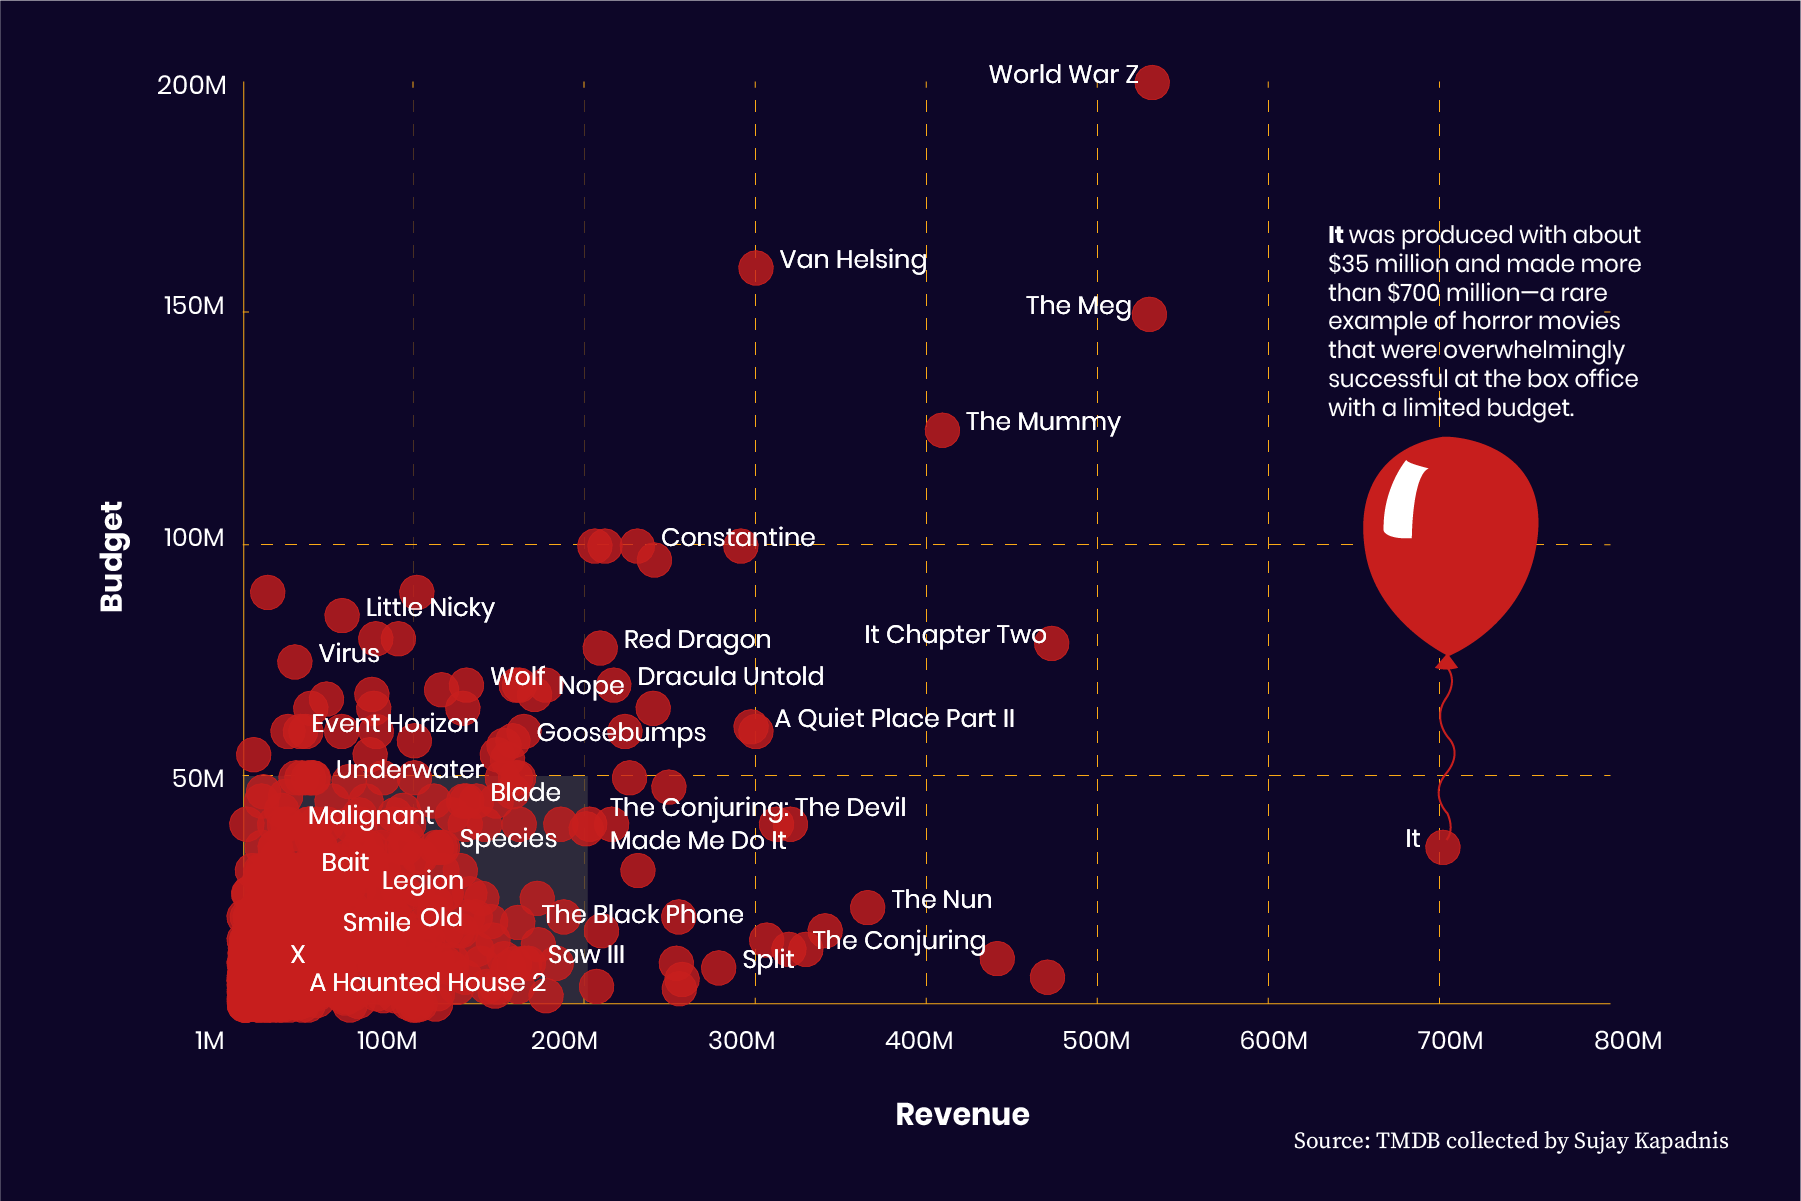
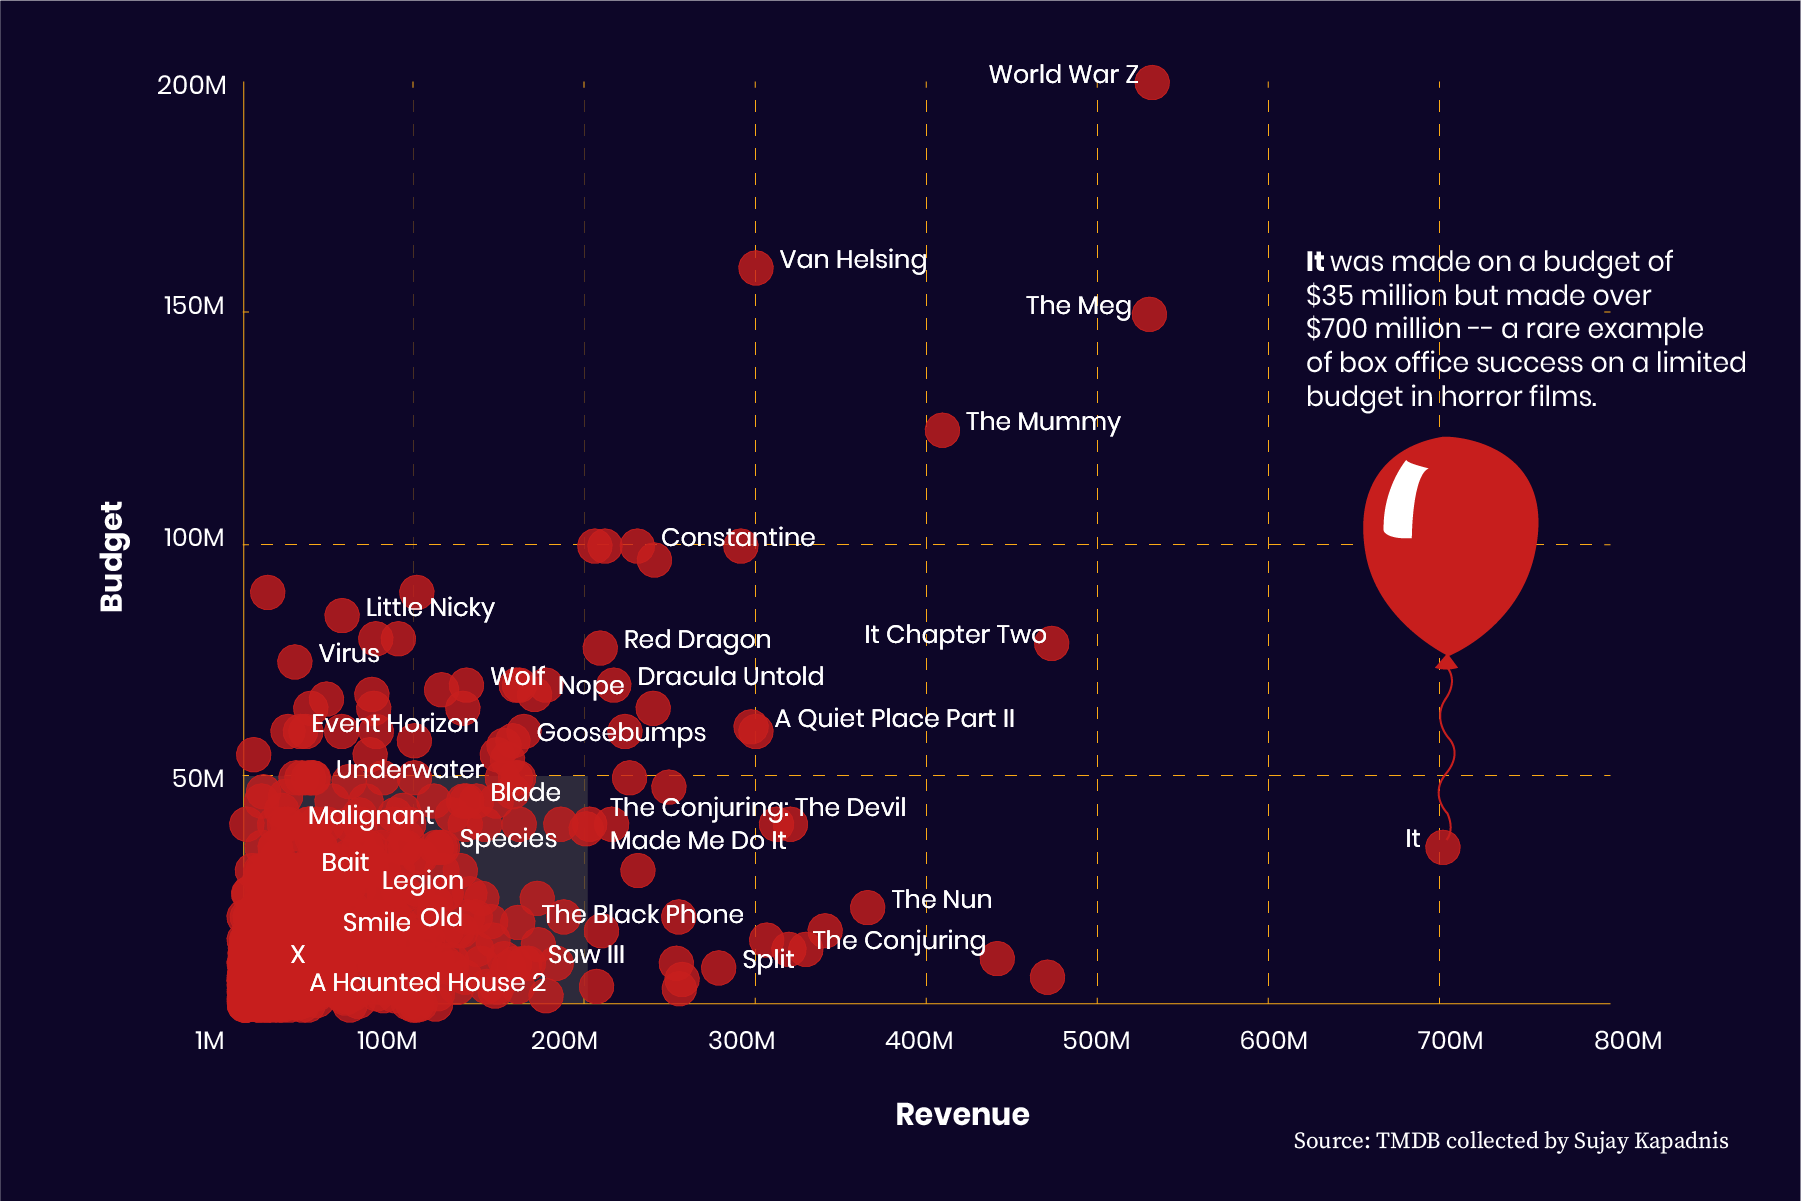
update content

Changed region(s): [[0.7152, 0.1848, 0.9639, 0.3697]]

diff --git a/index.html b/index.html
@@ -7,36 +7,69 @@
         <link rel="preconnect" href="https://fonts.googleapis.com">
         <link rel="preconnect" href="https://fonts.gstatic.com" crossorigin>
         <link href="https://fonts.googleapis.com/css2?family=Nosifer&family=Poppins:ital,wght@0,100;0,200;0,300;0,400;0,500;0,600;0,700;0,800;0,900;1,100;1,200;1,300;1,400;1,500;1,600;1,700;1,800;1,900&family=Source+Serif+4:ital,opsz,wght@0,8..60,200..900;1,8..60,200..900&display=swap" rel="stylesheet">
+        
+        <!--Twitter -->
+        <meta name="twitter:card" content="summary">
+        <meta name="twitter:site" content="@cnsmaryland">
+        <meta name="twitter:title" content="Trading Away Justice">
+        <meta name="twitter:description" content="Why do defendants plead guilty to crimes they didn't commit?">
+        <meta name="twitter:creator" content="@cnsmaryland">
+        <meta name="twitter:image" content="http://cnsmaryland.org/interactives/spring-2018/plea-bargain/assets/main-social.png" />
+
+        <!--Facebook OpenGraph-->
+        <meta property="og:title" content="Trading Away Justice">
+        <meta property="og:type" content="article" />
+        <meta property="og:url" content="http://cnsmaryland.org/interactives/spring-2018/plea-bargain/index.html">
+        <meta property="og:description" content="Why do defendants plead guilty to crimes they didn't commit?">
+        <meta property="og:image" content="http://cnsmaryland.org/interactives/spring-2018/plea-bargain/assets/main-social.png" />
+        <meta property="og:site_name" content="CNS Maryland">
+        <meta property="fb:app_id" content="209502139105366" />
+
+        <!-- METRICS -->
+        <meta name="parsely-title" content="Add title" />
+        <meta name="parsely-link" content="Add link" />
+        <meta name="parsely-type" content="post" />
+        <meta name="parsely-pub-date" content="Add date" />
+        <meta name="parsely-section" content="Investigations" />
+        <meta name="parsely-author" content="CNS Maryland" />
+        <meta name="parsely-tags" content="crime, investigative journalism, interactives" />
+
         <link href="style.css" rel="stylesheet">
     </head>
     <body>
         <section class="landing">
-            <img src="cns-logo.jpeg" alt="CNS Logo" class="landing-logo">
+            <div class="navbar">
+                <a class="navbar-brand" href="http://cnsmaryland.org/" target="_blank">
+                    <img src="logo.png" id="logo">
+                </a>
+            </div>
             <div class="landing-content">
-                <h1>Data Shows Five Fun Facts<br>about Horror Movies</h1>
+                <h1 id="headline1">Spooky season isn’t<br>just in October:</h1>
+                <h1 id="headline2">Examining the data around horror movies</h1>
                 <p>By Molecule Jongwilai</p>
+                <p id="disclaimer">This scrolly-telling story is best experienced on a desktop or widescreen display.</p>
             </div>
         </section>
 
 
         <section class="intro">
             <div class="blood-transition1"></div>
-            <p>October is a huge time for horror movies. From 2020 to 2022, almost a thousand horror movies were released in October, while the average number of horror films released monthly was around 470, according to data set from The Movie Database (TMDB) website.</p>
-            <p id="intro-second-paragraph">Capital News Service analyzed horror movie data from TMDB and found five interesting facts about these spooky films that help us understand them a little better.</p>
+            <p>With the Halloween season underway, it is easy to assume that October is the biggest time of the year for horror movies. However, data from The Movie Database (TMDB) website shows audiences love spooky movies year round; January was the most popular month for releasing scary films while the summer and holiday seasons tend to be the best times for horror movies to become box office hits. <span style="color: #C71E1D; font-weight: 600;">Spooky season isn’t just in October.</span> </p>
+            <p id="intro-second-paragraph">Capital News Service analyzed data about horror movies released between 1950 and 2022 from TMDB and found five interesting facts about these spooky films that help us understand them a little better.</p>
         </section>
 
 
         <section class="fact-1">
-            <h2>1. January turns out to be a more popular month for horror movies than October.</h2>
-            <p>Of the 32,540 horror movies released between 1950 and 2022, TMDB data show that January was the top choice for film studios to release them, with almost 5,600 films coming out that month, above the average number of 2,700 monthly released films. Surprisingly, October was in second place for horror films' release with almost 4,900 movies.</p>
+            <h2>1. January is a more popular month to release horror movies than October</h2>
+            <p>Of the over 30,000 horror movies released between 1950 and 2022, TMDB data shows that January was the top month for horror releases, with almost 5,600 films released in January over the 72 year period. October was in second place for horror films' release with almost 4,900 movies released on Halloween month between 1950 and 2022.</p>
             <img src="horror-fact1.png" alt="most horror movies are released in January and October">
         </section>
 
 
         <section class="fact-2">
-            <h2>2. It’s quite hard for a horror movie to become a box office hit.</h2>
-            <p>We narrowed it down to 721 horror films that were produced by and made at least $1 million. Data show that most horror movies were made with budget under $50 million and rarely earned more than $200 million.</p>
-            <p>A few horror movies with more than $100 million in cost, like World War Z, The Meg or The Mummy, managed to become a blockbuster hit that gained over $400 million, while a rare case like It could make more than $700 million from only a $35 million budget.</p>
+            <h2>2. It’s difficult for horror movies to become box office hits</h2>
+            <p>Around 720 horror films in the dataset had a budget of at least $1 million and produced at least that same amount in revenue. Most horror movies were made for under $50 million and rarely earned more than $200 million in revenue.</p>
+            <p>There are exceptions. <i>World War Z</i>, <i>The Meg</i> or <i>The Mummy</i>, which all cost over $100 million to make, managed to become blockbuster hits that made over $400 million in revenue, and a rare case like <i>It</i> made more than $700 million from only a $35 million budget.</p>
             
             <div class="image-container2"> 
                 <img src="horror-fact2a.png" class ="image imagef2-1 visible" alt="fact2a">
@@ -46,8 +79,8 @@
 
 
         <section class="fact-3">
-            <h2>3. Like films in most genres, summer and Christmas are the best times for horror films to make money.</h2>
-            <p>It is uncommon for horror films to earn more than $300 million at the box office. However, most that accomplished this milestone, including Jaws, It Chapter Two or The Exorcist, were released between June and September or in December.</p>
+            <h2>3. Like most films, summer and Christmas are the best times for horror films to make money</h2>
+            <p>It is rare for horror films to earn more than $300 million at the box office. Most that accomplished this milestone, including <i>Jaws</i>, <i>It Chapter Two</i> or <i>The Exorcist</i>, were released during the summer movie season, between June and September, or around the holidays in December.</p>
             
             <div class="image-container3"> 
                 <img src="horror-fact3a.png" class ="image imagef3-1 visible" alt="fact3a">
@@ -56,8 +89,8 @@
         </section>
 
         <section class="fact-4">
-            <h2>4. 60s through 80s horror movies tended to receive higher ratings from the audience.</h2>
-            <p>According to the TMDB’s average voted scores, most horror movies were rated between 5.0 and 7.0. Nonetheless, those released between 1960 and 1989 tended to receive better scores than films from other decades in overview.</p>
+            <h2>4. 60s through 80s horror movies tended to receive higher ratings from the audience</h2>
+            <p>According to the TMDB’s average voted scores, most horror movies were rated between 5.0 and 7.0 and films released between 1960 and 1989, including <i>Rosemary’s Baby</i>, <i>Alien</i> or <i>The Thing</i>, tended to receive better scores than films from other decades.</p>
 
             <div class="image-container4"> 
                 <img src="horror-fact4a.png" class ="image imagef4-1 visible" alt="fact4a">
@@ -66,8 +99,8 @@
         </section>
 
         <section class="fact-5">
-            <h2>5. Budget and runtime do not determine a good horror movie.</h2>
-            <p>TMDB data show that the movie’s budget and duration do not correlate with its audience score. Almost every horror movie was rated between 4.0 and 8.0, and this range included movies with a low budget, to those with more than $100 million production, and films that run from only an hour to almost three hours.</p>
+            <h2>5. Budget and runtime do not necessarily determine a good horror movie</h2>
+            <p>TMDB data show that the movie’s budget and duration do not necessarily correlate with its audience score. The majority of films in the dataset were scored between 4.0 and 8.0, and this range included movies with a low budget, like a masterpiece, <i>The Shining</i>, to those with more than $100 million for packed action sequences like <i>Van Helsing</i>, and films that run from only an hour, like a zombie found footage, <i>[REC]</i>, to almost three hours epic conclusion like <i>It Chapter Two</i>.</p>
 
             <div class="image-container5"> 
                 <img src="horror-fact5a.png" class ="image imagef5-1 visible" alt="fact5a">
@@ -77,7 +110,7 @@
 
         <section class="outro">
             <div class="blood-transition2"></div>
-            <p>So far, 2025 has also been a strong year for horror movies. Box office successes like The Conjuring: Last Rites and Final Destination Bloodlines made over $300 million with a budget of around $50 million. There have also been several critically acclaimed films, including Sinners, Companion and Weapon, with an above 90% Rotten Tomatoes score which may be worth adding to the Letterboxd watchlist this Halloween.</p>
+            <p>So far, 2025 has been a strong year for horror movies. Box office successes like <i>The Conjuring: Last Rites</i> and <i>Final Destination Bloodlines</i> made over $300 million with a budget of around $50 million. There have also been several critically acclaimed films, including <i>Sinners</i>, <i>Companion</i> and <i>Weapons</i>, with an above 90% Rotten Tomatoes score which may be worth adding to your Letterboxd watchlist this Halloween.</p>
             <p id="outro-second-paragraph">By Molecule Jongwilai | Capital News Service</p>
         </section>
 

diff --git a/style.css b/style.css
@@ -29,13 +29,21 @@ section {
     position: relative;
 }
 
-.landing-logo {
+.navbar {
     position: absolute;
-    top: 17px;
-    left: 17px;
-    width: 100px;
-    height: auto;
-    z-index: 3;
+    top: 0;
+    left: 0;
+    width: 100%;
+    height: 60px;
+    z-index: 5;
+    background: #0D0628;
+    padding: auto;
+}
+
+#logo {
+  width:270px;
+  padding-left: 30px;
+  padding-top: 17px;
 }
 
 .landing-content {
@@ -45,20 +53,43 @@ section {
     text-align: center;
 }
 
-.landing-content h1 {
+.landing-content #headline1 {
     color: #ffffff;
     font-family: "Nosifer", sans-serif;
     font-weight: 400;
     font-size: 4em;
     font-style: normal;
+    line-height: 1.25em;
+    margin-bottom: 0px;
+}
+
+.landing-content #headline2 {
+    color: #ffffff;
+    font-family: "Nosifer", sans-serif;
+    font-weight: 100;
+    font-size: 2em;
+    font-style: normal;
+    margin-top: 0px;
 }
 
 .landing-content p {
     color: #ffffff;
     font-family: "Poppins", sans-serif;
-    font-weight: 400;
+    font-weight: 300;
     font-size: 1.5em;
     font-style: normal;
+    padding-top: 40px;
+    margin-bottom: 5px;
+}
+
+.landing-content #disclaimer {
+    color: #ffffff;
+    font-family: "Poppins", sans-serif;
+    font-weight: 200;
+    font-size: 1em;
+    font-style: normal;
+    padding-top: 0px;
+    margin-top: 2px;
 }
 
 /* intro */
